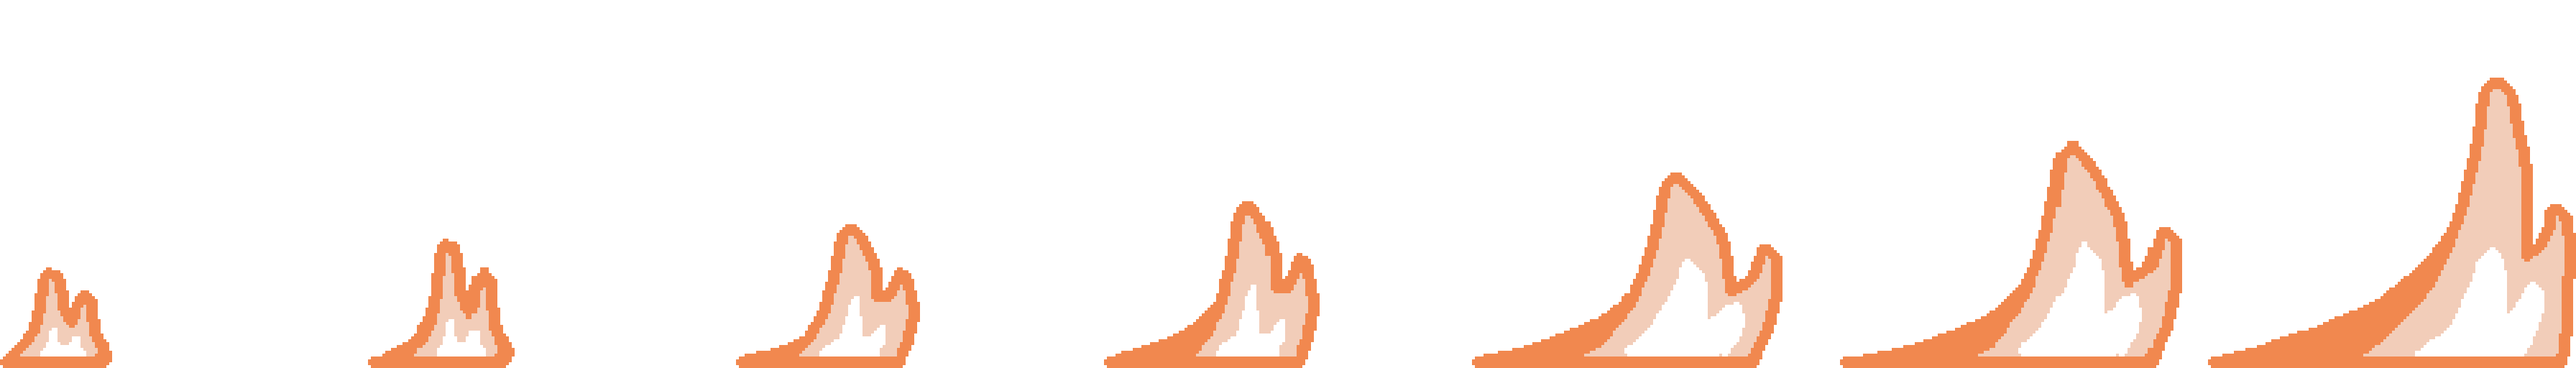
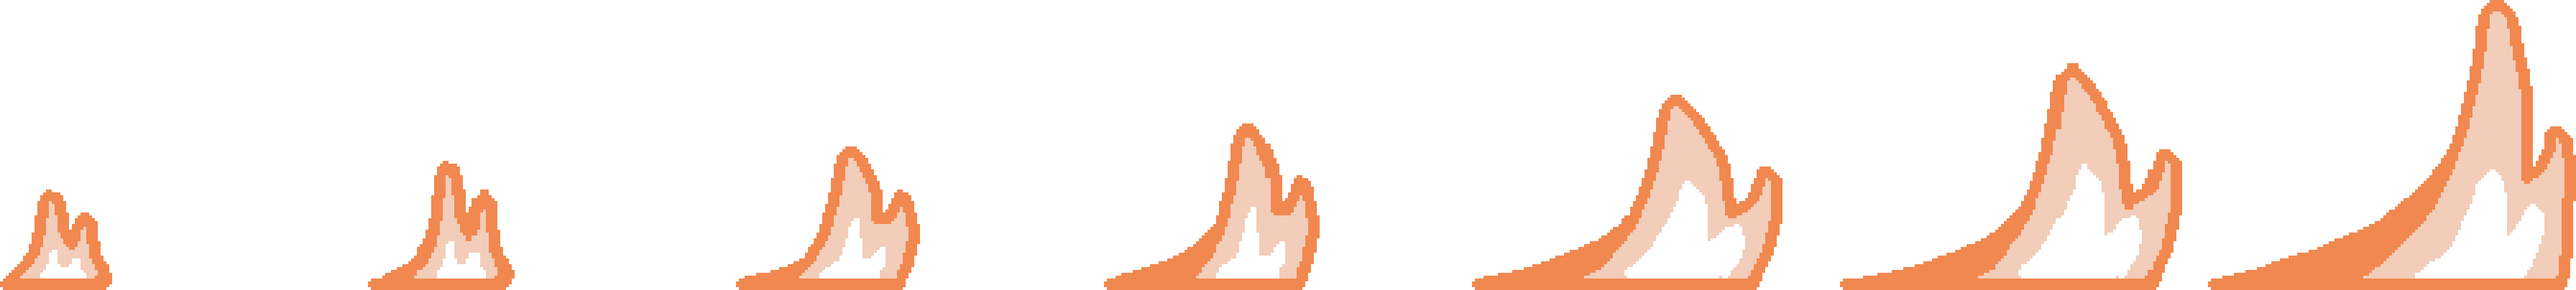
衝撃波テクスチャ差し替え

diff --git a/Game/Player/Player.cpp b/Game/Player/Player.cpp
@@ -26,7 +26,7 @@ Player::Player() {
 
 	tex_->pos = {};
 
-	tex_->scale *= 50.0f;
+	tex_->scale = scale_;
 
 	// ジャンプ時の初速
 	kJampInitialVelocity_ = 10.0f;
@@ -191,6 +191,7 @@ void Player::Update(const float& y, const Camera* camera) {
 	models_[static_cast<uint16_t>(Parts::kMain)]->Update();
 	tex_->Update();
 
+	easeScale_.Update();
 	isCollisionLayer_.Update();
 	isCollisionEnemy_.Update();
 }
@@ -230,9 +231,14 @@ void Player::NormalUpdate(const float& y) {
 		if (input_->GetKey()->Pushed(DIK_SPACE) || input_->GetGamepad()->Pushed(Gamepad::Button::A)) {
 			statusRequest_ = Status::kHipDrop;
 		}
-		/*else {
-			velocity_.y += kGravity_ * deletaTime;
-		}*/
+
+		easeCount_ += deletaTime;
+
+		if (easeCount_ > easeTime_) {
+			easeCount_ = easeTime_;
+		}
+
+		tex_->scale = Vector2::Lerp(scaleStart_, scaleEnd_, easeCount_ / easeTime_);
 	}
 
 	// ジャンプ入力
@@ -242,6 +248,12 @@ void Player::NormalUpdate(const float& y) {
 		isStep_ = false;
 		// 初速を与える
 		velocity_.y = kJampInitialVelocity_;
+
+		//easeScale_.Start(false, 0.3f, Easeing::InSine);
+		scaleStart_ = scale_;
+		scaleEnd_ = { scale_.x * 0.8f,scale_.y * 1.2f };
+		easeCount_ = 0.0f;
+		easeTime_ = 0.3f;
 	}
 
 	if (isFallingGravity_) {
@@ -343,7 +355,7 @@ void Player::OnScaffoldingUpdate()
 		statusRequest_ = Status::kNormal;
 	}
 
-	velocity_.y += kGravity_;
+	velocity_.y += kGravity_ * deletaTime;
 
 	// 横の移動距離
 	velocity_.x = move.x * kMoveSpeed_;
@@ -361,6 +373,11 @@ void Player::LandingInitialize(const float& y) {
 	Collision(y);
 
 	play_->CreatShockWave(tex_->pos, highest_, y);
+
+	/*scaleStart_ = tex_->scale;
+	scaleEnd_ = { scale_.x * 0.6f,scale_.y * 1.4f };
+	easeCount_ = 0.0f;
+	easeTime_ = 0.5f;*/
 
 	/*if (highest_ > ShockWave::kHighCriteria_[static_cast<uint16_t>(ShockWave::Size::kSmall)] - y) {
 		play_->CreatShockWave(tex_->pos, highest_, y);

diff --git a/Game/Player/Player.h b/Game/Player/Player.h
@@ -4,7 +4,7 @@
 #include "Drawers/Texture2D/Texture2D.h"
 #include "Drawers/Model/Model.h"
 #include "Input/Input.h"
-
+#include "Utils/Easeing/Easeing.h"
 #include "GlobalVariables/GlobalVariables.h"
 
 class GameScene;
@@ -176,6 +176,13 @@ private:
 	void MemoHighest();
 	
 private:
+	Vector2 scale_ = { 50.0f,50.0f };
+	Easeing easeScale_;
+	float easeTime_;
+	float easeCount_;
+
+	Vector2 scaleStart_;
+	Vector2 scaleEnd_;
 
 	float rotateAddAngle_;
 

diff --git a/Game/ShockWave/ShockWave.cpp b/Game/ShockWave/ShockWave.cpp
@@ -183,7 +183,7 @@ void ShockWave::Update() {
 	}
 
 	for (std::unique_ptr<Texture2D>& tex : textures_) {
-		tex->Animation(size_t(kDeleteFrame_[static_cast<uint16_t>(type_)]) * 2000, false, 0.0f, 6.0f);
+		tex->Animation(size_t(kDeleteFrame_[static_cast<uint16_t>(type_)]), false, 0.0f, 6.0f);
 		tex->Update();
 	}
 }
